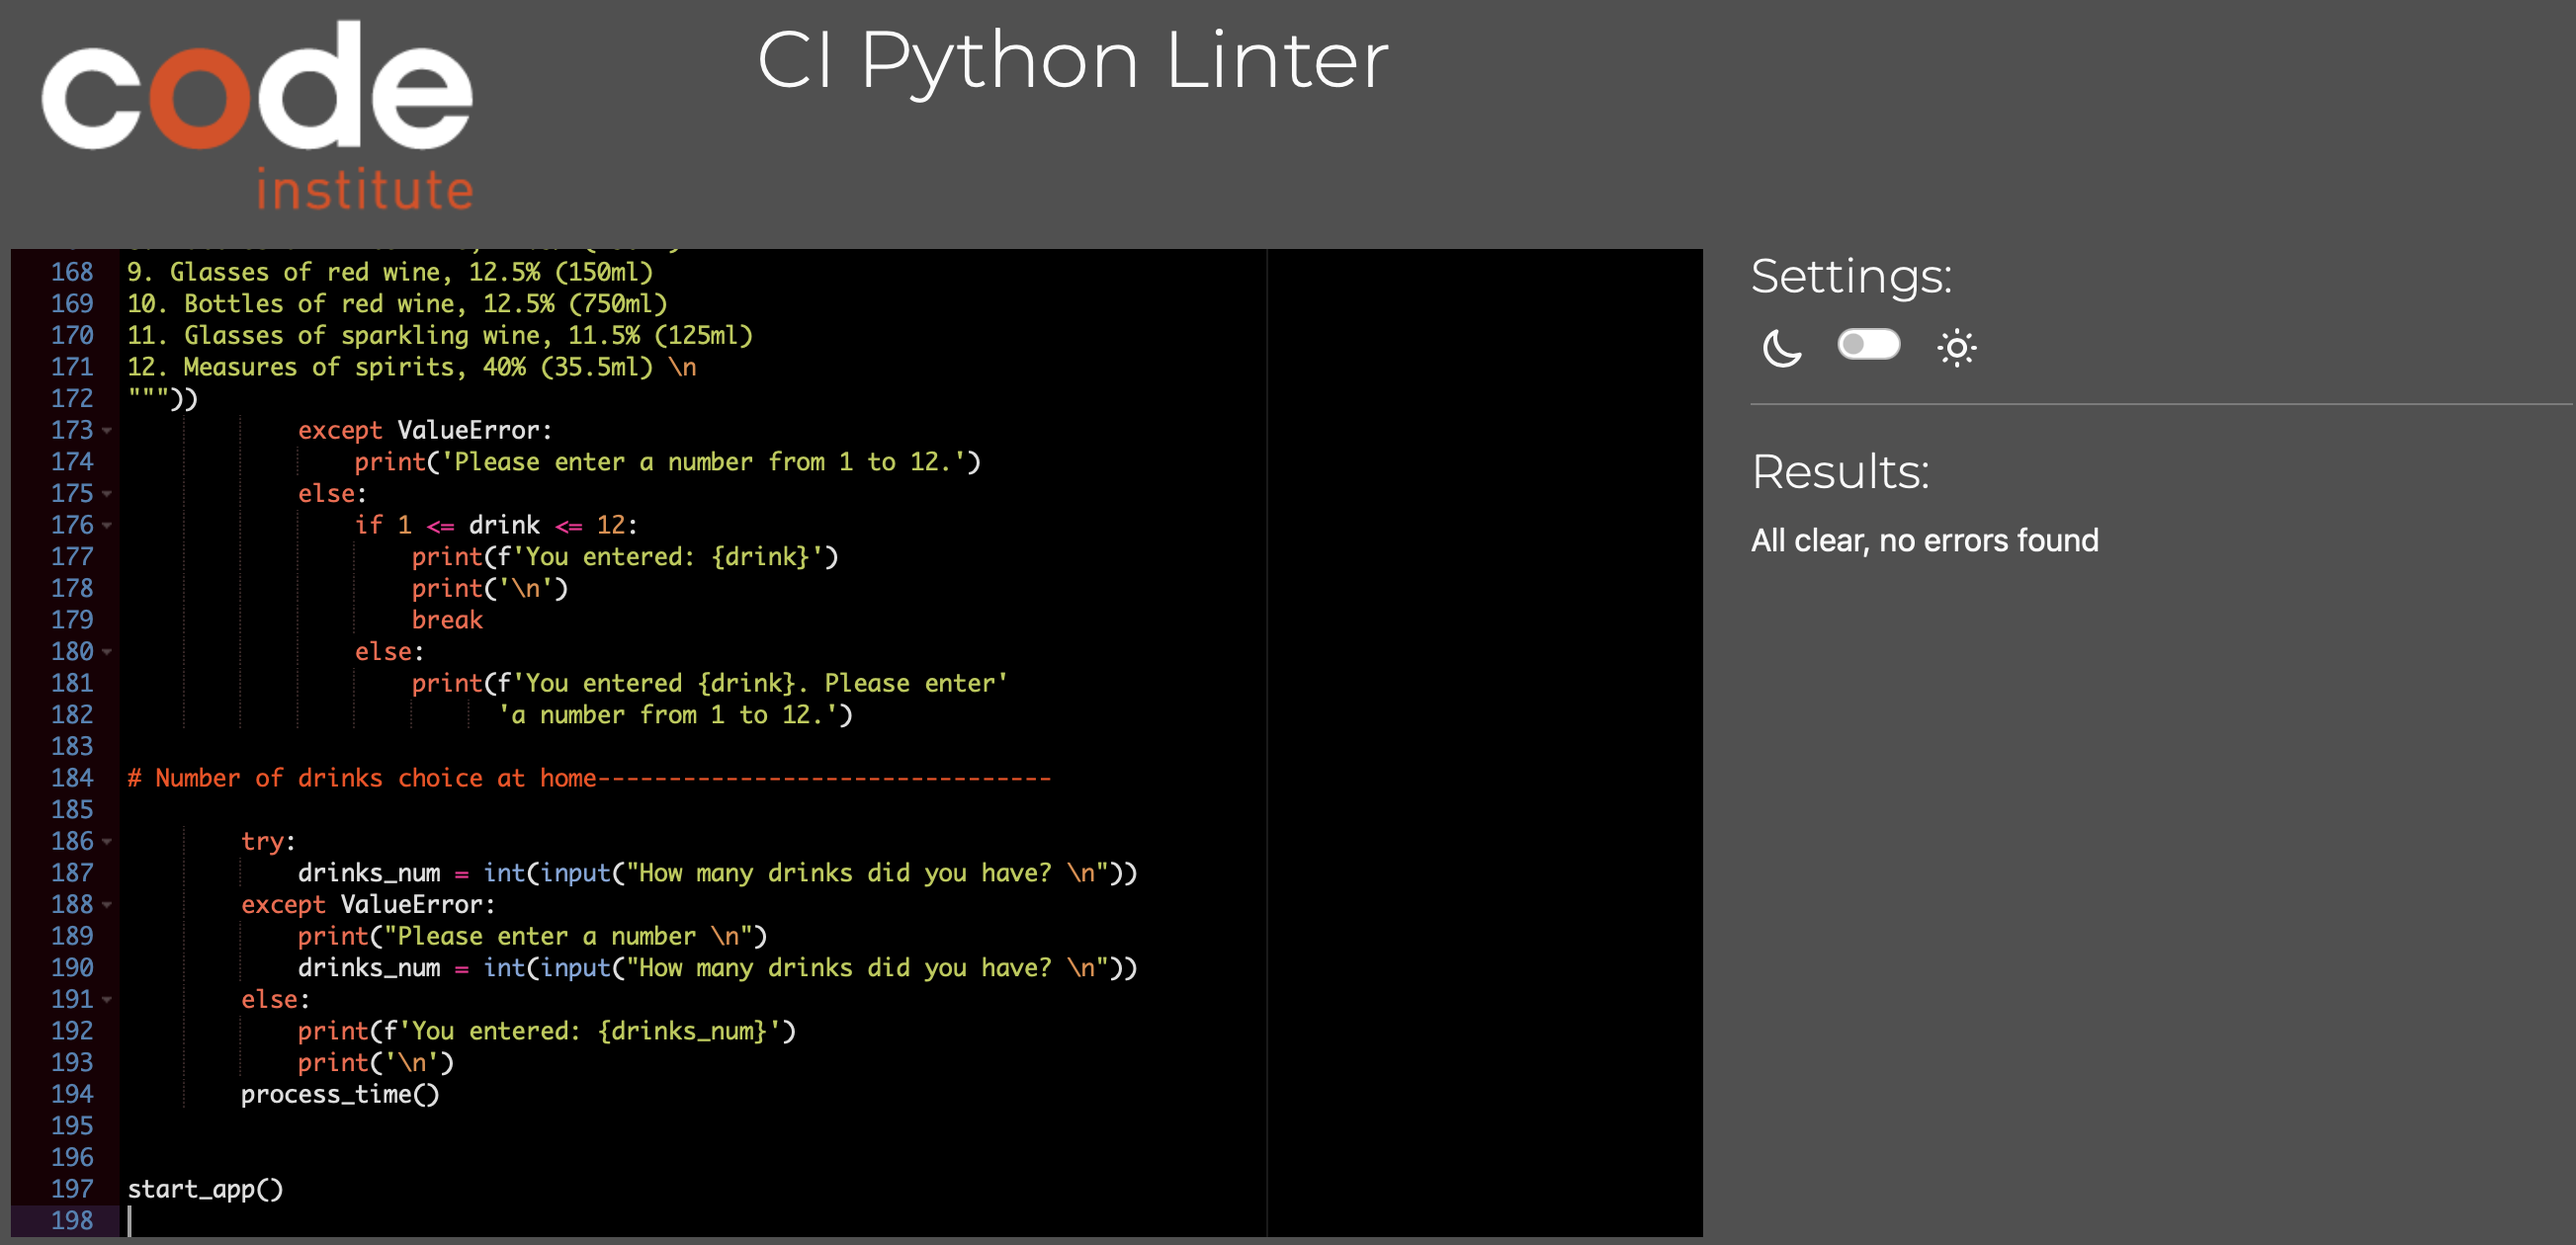
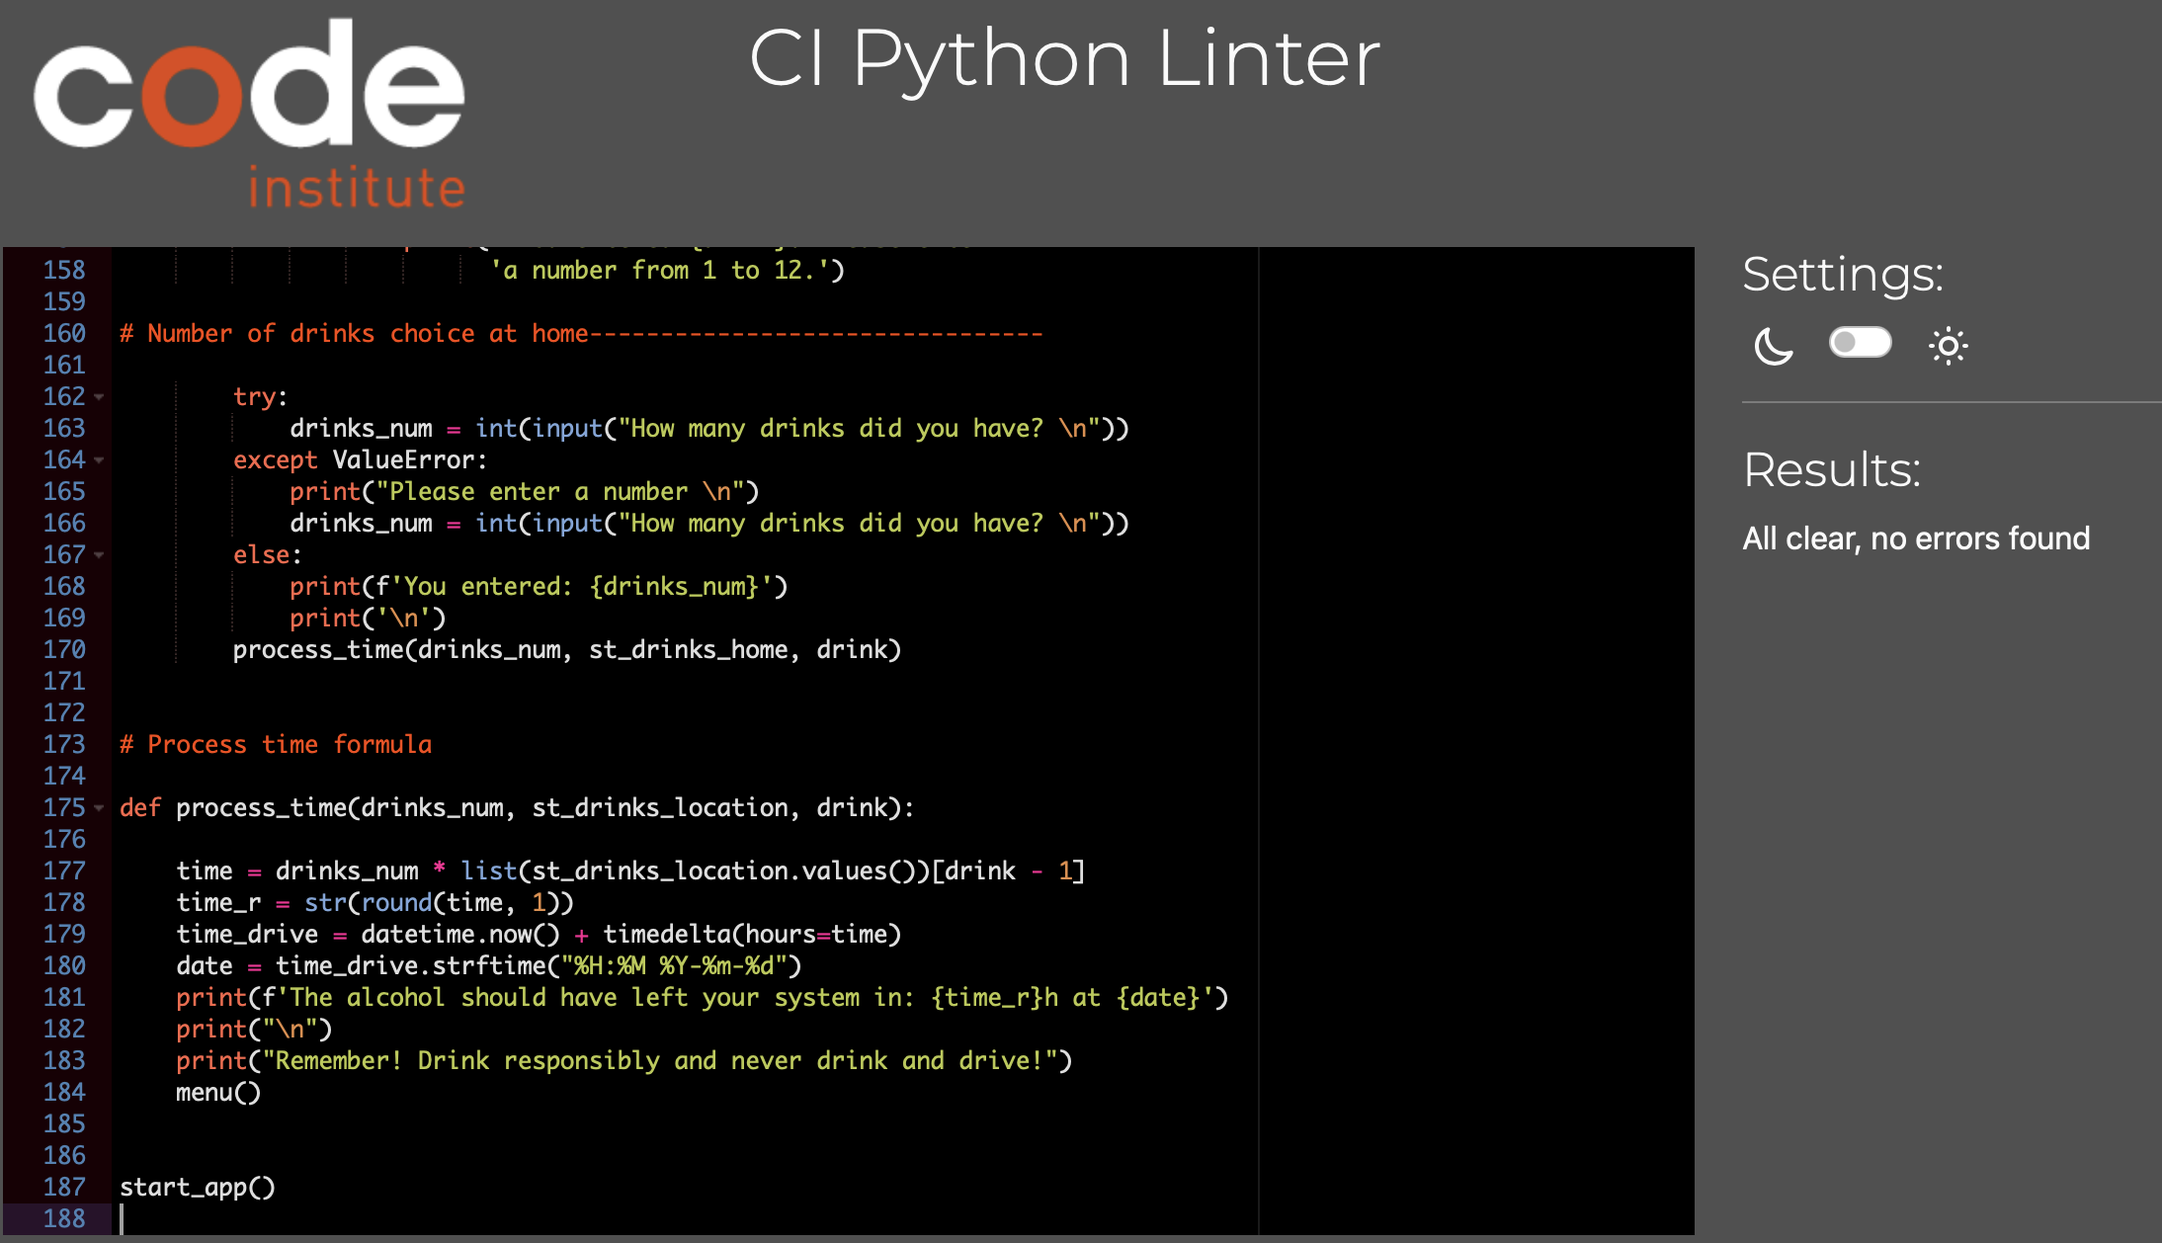
Merge 2 process time functions (home and pub) into one

diff --git a/test2.py b/test2.py
@@ -1,62 +1,187 @@
-drinks = {
-    'pub': [
-        {'text': 'Pints of lager, 3% (568ml)',
-        'alcohol': 1.3},
-        {'text': 'Pints of lager, 4.5% (568ml)',
-        'alcohol': 2.05},
-        {'text': 'Bottles of lager, 4.5% (330ml)',
-        'alcohol': 1},
-        {'text': 'Pints of stout, 4.2% (568ml)',
-        'alcohol': 2.05},
-        {'text': 'Pints of cider, 4.5% (568ml)',
-        'alcohol': 2.05},
-        {'text': 'Bottles of cider, 4.5% (330ml)',
-        'alcohol': 1},
-        {'text': 'Bottles of alcopop, 4% (330ml)',
-        'alcohol': 1.2},
-        {'text': 'Glasses of white wine, 12.5% (150ml)',
-        'alcohol': 1.5},
-        {'text': 'Bottles of white wine, 12.5% (750ml)',
-        'alcohol': 7.5},
-        {'text': 'Glasses of red wine, 12.5% (150ml)',
-        'alcohol': 1.5},
-        {'text': 'Bottles of red wine, 12.5% (750ml)',
-        'alcohol': 7.5},
-        {'text': 'Glasses of sparkling wine, 11.5% (125ml)',
-        'alcohol': 1},
-        {'text': 'Measures of spirits, 40% (35.5ml)',
-        'alcohol': 1}
-    ],
-    'home': [
-        {'text': 'Cans of lager, 4.5% (500ml)',
-        'alcohol': 1.8},
-        {'text': 'Bottles of lager, 4.5% (330ml)',
-        'alcohol': 1},
-        {'text': 'Cans of stout, 4.2% (500ml)',
-        'alcohol': 1.8},
-        {'text': 'Cans of cider, 4.5% (500ml)',
-        'alcohol': 1.8},
-        {'text': 'Bottles of cider, 4.5% (330ml)',
-        'alcohol': 1},
-        {'text': 'Bottles of alcopop, 4% (330ml)',
-        'alcohol': 1.2},
-        {'text': 'Glasses of white wine, 12.5% (150ml)',
-        'alcohol': 1.5},
-        {'text': 'Bottles of white wine, 12.5% (750ml)',
-        'alcohol': 7.5},
-        {'text': 'Glasses of red wine, 12.5% (150ml)',
-        'alcohol': 1.5},
-        {'text': 'Bottles of red wine, 12.5% (750ml)',
-        'alcohol': 7.5},
-        {'text': 'Glasses of sparkling wine, 11.5% (125ml)',
-        'alcohol': 1},
-        {'text': 'Measures of spirits, 40% (35.5ml)',
-        'alcohol': 1}
-    ]
-}
+from datetime import datetime, timedelta
+from os import system, name
 
-# for index, item in enumerate(drinks['pub']):
-#     print(f'{index + 1}: {item}')
 
-for index, items in enumerate(drinks['pub']):
-    print(f'{index + 1}: {items.get("text")}')
+def clear():
+
+    # for windows
+    if name == 'nt':
+        _ = system('cls')
+
+    # for mac and linux(here, os.name is 'posix')
+    else:
+        _ = system('clear')
+
+
+def menu():
+    start = input('Do you want to start again? y / n\n')
+    while start != 'y' and start != 'n':
+        print('Please use "y" or "n" to reply\n')
+        start = input('Do you want to start again? y / n\n')
+    if start == 'y':
+        clear()
+        start_app()
+    elif start == 'n':
+        print("Thank you for using our app!")
+        quit()
+
+
+# Standard drinks number in a drink in a pub-----------
+
+st_drinks_pub = {'Pints of lager, 3% (568ml)': 1.3,
+                 'Pints of lager, 4.5% (568ml)': 2.05,
+                 'Bottles of lager, 4.5% (330ml)': 1,
+                 'Pints of stout, 4.2% (568ml)': 2.05,
+                 'Pints of cider, 4.5% (568ml)': 2.05,
+                 'Bottles of cider, 4.5% (330ml)': 1,
+                 'Bottles of alcopop, 4% (330ml)': 1.2,
+                 'Glasses of white wine, 12.5% (150ml)': 1.5,
+                 'Bottles of white wine, 12.5% (750ml)': 7.5,
+                 'Glasses of red wine, 12.5% (150ml)': 1.5,
+                 'Bottles of red wine, 12.5% (750ml)': 7.5,
+                 'Glasses of sparkling wine, 11.5% (125ml)': 1,
+                 'Measures of spirits, 40% (35.5ml)': 1}
+
+# Standard drinks number in a drink at home-------------
+
+st_drinks_home = {'Cans of lager, 4.5% (500ml)': 1.8,
+                  'Bottles of lager, 4.5% (330ml)': 1,
+                  'Cans of stout, 4.2% (500ml)': 1.8,
+                  'Cans of cider, 4.5% (500ml)': 1.8,
+                  'Bottles of cider, 4.5% (330ml)': 1,
+                  'Bottles of alcopop, 4% (330ml)': 1.2,
+                  'Glasses of white wine, 12.5% (150ml)': 1.5,
+                  'Bottles of white wine, 12.5% (750ml)': 7.5,
+                  'Glasses of red wine, 12.5% (150ml)': 1.5,
+                  'Bottles of red wine, 12.5% (750ml)': 7.5,
+                  'Glasses of sparkling wine, 11.5% (125ml)': 1,
+                  'Measures of spirits, 40% (35.5ml)': 1}
+
+
+# Welcome--------------------------------------------------
+
+def welcome():
+    print("""Welcome to Drink and Drive Calculator!\n
+This tool calculates an estimated time
+of processing alcohol for information
+purposes only. On average, it takes one hour
+to process one standard drink.
+Any amount of alcohol will affect your ability to drive.\n
+Let's start!\n""")
+
+
+# Drink place input----------------------------------------
+
+def start_app():
+    welcome()
+    drinks_num = 0
+    drink = 0
+    place = input("Where were you Drinking: pub / home? \n")
+
+    while place != 'pub' and place != 'home':
+        print('Please use "pub" or "home" to reply \n')
+        place = input("Where were you Drinking: pub / home? \n")
+
+# Drink choice in a pub--------------------------------
+
+    if place == 'pub':
+        while True:
+            try:
+                drink = int(input("""
+What drinks did you have? Enter a number: \n
+1. Pints of lager, 3% (568ml)
+2. Pints of lager, 4.5% (568ml)
+3. Bottles of lager, 4.5% (330ml)
+4. Pints of stout, 4.2% (568ml)
+5. Pints of cider, 4.5% (568ml)
+6. Bottles of cider, 4.5% (330ml)
+7. Bottles of alcopop, 4% (330ml)
+8. Glasses of white wine, 12.5% (150ml)
+9. Bottles of white wine, 12.5% (750ml)
+10. Glasses of red wine, 12.5% (150ml)
+11. Bottles of red wine, 12.5% (750ml)
+12. Glasses of sparkling wine, 11.5% (125ml)
+13. Measures of spirits, 40% (35.5ml) \n
+"""))
+            except ValueError:
+                print('Please enter a number from 1 to 13.')
+            else:
+                if 1 <= drink <= 13:
+                    print(f'You entered: {drink}')
+                    print('\n')
+                    break
+                else:
+                    print(f'You entered {drink}. Please enter'
+                          'a number from 1 to 13.')
+
+# Number of drinks choice in a pub--------------------------------
+
+        try:
+            drinks_num = int(input("How many drinks did you have? \n"))
+        except ValueError:
+            print("Please enter a number \n")
+            drinks_num = int(input("How many drinks did you have? \n"))
+        else:
+            print(f'You entered: {drinks_num}')
+            print('\n')
+        process_time(drinks_num, st_drinks_pub, drink)
+
+# Drink choice at home--------------------------------
+
+    if place == 'home':
+        while True:
+            try:
+                drink = int(input("""\n
+What drinks did you have? Enter a number:\n
+1. Cans of lager, 4.5% (500ml)
+2. Bottles of lager, 4.5% (330ml)
+3. Cans of stout, 4.2% (500ml)
+4. Cans of cider, 4.5% (500ml)
+5. Bottles of cider, 4.5% (330ml)
+6. Bottles of alcopop, 4% (330ml)
+7. Glasses of white wine, 12.5% (150ml)
+8. Bottles of white wine, 12.5% (750ml)
+9. Glasses of red wine, 12.5% (150ml)
+10. Bottles of red wine, 12.5% (750ml)
+11. Glasses of sparkling wine, 11.5% (125ml)
+12. Measures of spirits, 40% (35.5ml) \n
+"""))
+            except ValueError:
+                print('Please enter a number from 1 to 12.')
+            else:
+                if 1 <= drink <= 12:
+                    print(f'You entered: {drink}')
+                    print('\n')
+                    break
+                else:
+                    print(f'You entered {drink}. Please enter'
+                          'a number from 1 to 12.')
+
+# Number of drinks choice at home--------------------------------
+
+        try:
+            drinks_num = int(input("How many drinks did you have? \n"))
+        except ValueError:
+            print("Please enter a number \n")
+            drinks_num = int(input("How many drinks did you have? \n"))
+        else:
+            print(f'You entered: {drinks_num}')
+            print('\n')
+        process_time(drinks_num, st_drinks_home, drink)
+
+
+# Process time formula
+
+def process_time(drinks_num, st_drinks_location, drink):
+
+    time = drinks_num * list(st_drinks_home.values())[drink - 1]
+    p_time = str(round(time, 1))
+    time_home = datetime.now() + timedelta(hours=time)
+    date = time_home.strftime("%H:%M %Y-%m-%d")
+    print(f'The alcohol should have left your system in: {p_time}h at {date}')
+    print("\n")
+    print("Remember! Drink responsibly and never drink and drive!")
+    menu()
+
+
+start_app()

diff --git a/run.py b/run.py
@@ -1,5 +1,5 @@
 from datetime import datetime, timedelta
-from os import system
+from os import system, name
 
 
 def clear():
@@ -19,8 +19,10 @@ def menu():
         print('Please use "y" or "n" to reply\n')
         start = input('Do you want to start again? y / n\n')
     if start == 'y':
+        clear()
         start_app()
     elif start == 'n':
+        print("Thank you for using our app!")
         quit()
 
 
@@ -59,7 +61,7 @@ st_drinks_home = {'Cans of lager, 4.5% (500ml)': 1.8,
 # Welcome--------------------------------------------------
 
 def welcome():
-    welcome_message = print("""Welcome to Drink and Drive Calculator!\n
+    print("""Welcome to Drink and Drive Calculator!\n
 This tool calculates an estimated time
 of processing alcohol for information
 purposes only. On average, it takes one hour
@@ -68,39 +70,13 @@ Any amount of alcohol will affect your ability to drive.\n
 Let's start!\n""")
 
 
-welcome()
-
-
 # Drink place input----------------------------------------
 
 def start_app():
+    welcome()
     drinks_num = 0
-    p_time_pub = 0
-    p_time_home = 0
     drink = 0
     place = input("Where were you Drinking: pub / home? \n")
-
-# Process time formula
-
-    def process_time():
-        if place == 'pub':
-            p_time_pub = drinks_num * list(st_drinks_pub.values())[drink - 1]
-            p_time = str(round(p_time_pub, 1))
-            time_pub = datetime.now() + timedelta(hours=p_time_pub)
-            y = time_pub.strftime("%H:%M %Y-%m-%d")
-            print(f'Alcohol should have left your system in: {p_time}h at {y}')
-            print("\n")
-            print("Remember! Drink responsibly and never drink and drive!")
-            menu()
-        elif place == 'home':
-            p_time_home = drinks_num * list(st_drinks_home.values())[drink - 1]
-            p_time = str(round(p_time_home, 1))
-            time_home = datetime.now() + timedelta(hours=p_time_home)
-            x = time_home.strftime("%H:%M %Y-%m-%d")
-            print(f'Alcohol should have left your system in: {p_time}h at {x}')
-            print("\n")
-            print("Remember! Drink responsibly and never drink and drive!")
-            menu()
 
     while place != 'pub' and place != 'home':
         print('Please use "pub" or "home" to reply \n')
@@ -148,7 +124,7 @@ What drinks did you have? Enter a number: \n
         else:
             print(f'You entered: {drinks_num}')
             print('\n')
-        process_time()
+        process_time(drinks_num, st_drinks_pub, drink)
 
 # Drink choice at home--------------------------------
 
@@ -191,7 +167,21 @@ What drinks did you have? Enter a number:\n
         else:
             print(f'You entered: {drinks_num}')
             print('\n')
-        process_time()
+        process_time(drinks_num, st_drinks_home, drink)
+
+
+# Process time formula
+
+def process_time(drinks_num, st_drinks_location, drink):
+
+    time = drinks_num * list(st_drinks_location.values())[drink - 1]
+    time_r = str(round(time, 1))
+    time_drive = datetime.now() + timedelta(hours=time)
+    date = time_drive.strftime("%H:%M %Y-%m-%d")
+    print(f'The alcohol should have left your system in: {time_r}h at {date}')
+    print("\n")
+    print("Remember! Drink responsibly and never drink and drive!")
+    menu()
 
 
 start_app()

diff --git a/test3.py b/test3.py
@@ -1,0 +1,25 @@
+# import only system from os
+from os import system, name
+ 
+# import sleep to show output for some time period
+from time import sleep
+ 
+# define our clear function
+def clear():
+ 
+    # for windows
+    if name == 'nt':
+        _ = system('cls')
+ 
+    # for mac and linux(here, os.name is 'posix')
+    else:
+        _ = system('clear')
+ 
+# print out some text
+print('hello geeks\n'*10)
+ 
+# sleep for 2 seconds after printing output
+sleep(2)
+ 
+# now call function we defined above
+clear()

diff --git a/README.md b/README.md
@@ -161,4 +161,4 @@ To clone a repository in GitHub:</p>
 </ol>
 
 ## Media
-<p>Standard drinks information was taken from https://www.drugs.ie/site/screen2StandardDrinks.html, https://www.drinkaware.ie/what-is-a-standard-drink/ and https://www.nhs.uk/live-well/alcohol-advice/calculating-alcohol-units/</p>
+<p>Standard drinks information was taken from [here](https://www.drugs.ie/site/screen2StandardDrinks.html), [here](https://www.drinkaware.ie/what-is-a-standard-drink/) and [here](https://www.nhs.uk/live-well/alcohol-advice/calculating-alcohol-units/)</p>
